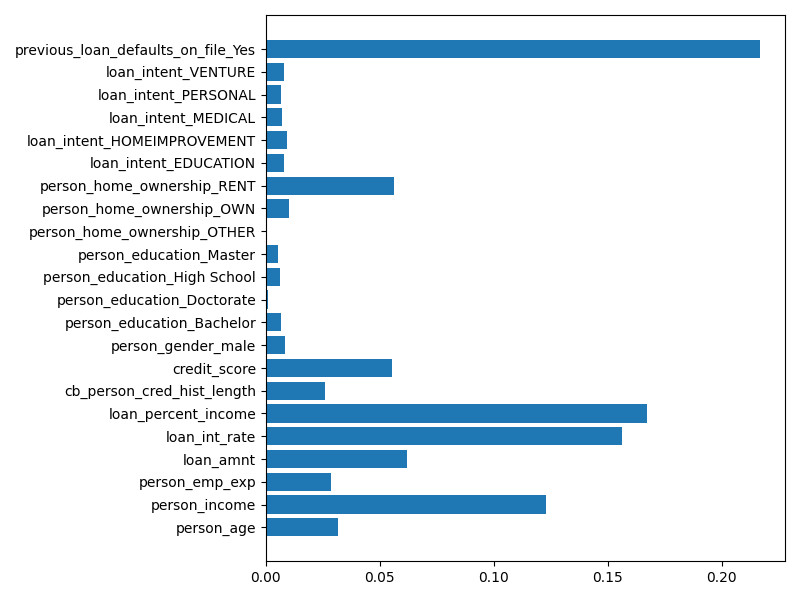
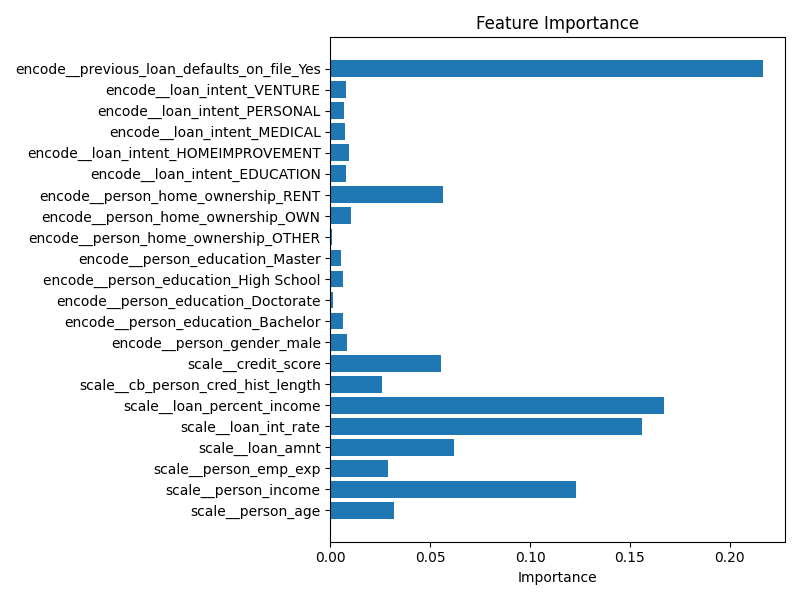
Added GitHub Actions workflow for CI/CD

diff --git a/app.py b/app.py
@@ -1,62 +1,55 @@
 import streamlit as st
 import pandas as pd
 import joblib
-import os
 
-root = os.path.dirname(os.path.dirname(__file__))
 
-# Carga modelo y scaler
-model = joblib.load(f"{root}/models/loan_model.pkl")
-scaler = joblib.load(f"{root}/models/scaler.pkl")
+# Load the trained pipeline from disk
+pipeline = joblib.load("models/loan_pipeline.pkl")
 
-st.title("Predictor de Loan Approval")
+st.title("Loan Approval Predictor")
 
 with st.form("loan_form"):
-    age = st.number_input("Age", 18, 100, 30)
-    gender = st.selectbox("Gender", ["Male", "Female", "Other"])
-    education = st.selectbox("Education", ["High School", "Bachelor", "Master", "PhD"])
-    income = st.number_input("Annual Income", 0.0, 1e6, 50000.0, step=1000.0)
-    emp_exp = st.number_input("Employment Years", 0, 50, 5)
-    home = st.selectbox("Home Ownership", ["RENT", "OWN", "MORTGAGE", "OTHER"])
-    loan_amnt = st.number_input("Loan Amount", 0.0, 1e6, 10000.0, step=500.0)
-    loan_intent = st.selectbox("Loan Purpose", ["PERSONAL", "EDUCATION", "MEDICAL",
-                                                "VENTURE", "HOME_IMPROVEMENT", "DEBT_CONSOLIDATION"])
-    loan_int_rate = st.number_input("Interest Rate (%)", 0.0, 100.0, 10.0)
-    loan_pct_inc = st.number_input("Loan % of Income", 0.0, 200.0, 20.0)
-    cred_hist = st.number_input("Credit History (yrs)", 0.0, 50.0, 5.0)
-    credit_score = st.number_input("Credit Score", 300, 850, 650)
-    prev_def = st.selectbox("Previous Defaults?", ["No", "Yes"])
-    submitted = st.form_submit_button("Predict")
+    age = st.number_input("Age", min_value=18, max_value=100, value=30)
+    gender = st.selectbox("Gender", ["male", "female"],format_func=lambda x: x.title())
+    education = st.selectbox("Education Level", ["High School", "Bachelor", "Master", "PhD"])
+    income = st.number_input("Annual Income", min_value=0.0, value=50000.0, step=1000.0)
+    emp_exp = st.number_input("Years of Employment", min_value=0, max_value=50, value=5)
+    home = st.selectbox("Home Ownership", ["RENT", "OWN", "MORTGAGE", "OTHER"],format_func=lambda x: x.title())
+    loan_amount = st.number_input("Loan Amount", min_value=0.0, value=10000.0, step=500.0)
+    loan_intent = st.selectbox("Loan Purpose", [
+        "PERSONAL", "EDUCATION", "MEDICAL",
+        "VENTURE", "HOME_IMPROVEMENT", "DEBT_CONSOLIDATION"
+    ],format_func=lambda x: x.title())
+    interest_rate = st.number_input("Interest Rate (%)", min_value=0.0, max_value=100.0, value=10.0)
+    percent_income = st.number_input("Loan as % of Income", min_value=0.0, max_value=200.0, value=20.0)
+    credit_history = st.number_input("Credit History (years)", min_value=0.0, max_value=50.0, value=5.0)
+    credit_score = st.number_input("Credit Score", min_value=300, max_value=850, value=650)
+    previous_defaults = st.selectbox("Previous Defaults?", ["No", "Yes"])
+    submit = st.form_submit_button("Predict")
 
-if submitted:
-    # Validaciones simples
-    errs = []
-    if income < loan_amnt:
-        errs.append("Income debe ≥ loan amount.")
-    if loan_int_rate > 50:
-        errs.append("Interest rate muy alto.")
-    if errs:
-        for e in errs:
-            st.error(e)
+if submit:
+    # Ensure that income is not less than the requested loan amount
+    if income < loan_amount:
+        st.error("Annual income must be at least the loan amount.")
     else:
-        # Crea DataFrame
-        df = pd.DataFrame({
-            "person_age": [age],
-            "person_gender": [gender],
-            "person_education": [education],
-            "person_income": [income],
-            "person_emp_exp": [emp_exp],
-            "person_home_ownership": [home],
-            "loan_amnt": [loan_amnt],
-            "loan_intent": [loan_intent],
-            "loan_int_rate": [loan_int_rate],
-            "loan_percent_income": [loan_pct_inc],
-            "cb_person_cred_hist_length": [cred_hist],
-            "credit_score": [credit_score],
-            "previous_loan_defaults_on_file": [prev_def]
-        })
-        # Aplica mismo preprocessing de categorías y escalado (podrías extraer función)
-        df_enc = pd.get_dummies(df, drop_first=True).reindex(columns=scaler.feature_names_in_, fill_value=0)
-        X_scaled = scaler.transform(df_enc)
-        pred = model.predict(X_scaled)[0]
-        st.success(f"Loan status: **{pred}**")
+        # Build a DataFrame with the user inputs
+        input_df = pd.DataFrame([{
+            "person_age": age,
+            "person_gender": gender,
+            "person_education": education,
+            "person_income": income,
+            "person_emp_exp": emp_exp,
+            "person_home_ownership": home,
+            "loan_amnt": loan_amount,
+            "loan_intent": loan_intent,
+            "loan_int_rate": interest_rate,
+            "loan_percent_income": percent_income,
+            "cb_person_cred_hist_length": credit_history,
+            "credit_score": credit_score,
+            "previous_loan_defaults_on_file": previous_defaults
+        }])
+
+        # Use the pipeline to make a prediction
+        prediction = pipeline.predict(input_df)[0]
+        loan_status = "Approved" if prediction == 1 else "Rejected"
+        st.success(f"Loan status predicted as: {loan_status}")

diff --git a/src/evaluate.py b/src/evaluate.py
@@ -1,36 +1,72 @@
-import joblib
 import os
+import joblib
 import pandas as pd
 from sklearn.metrics import accuracy_score
 import matplotlib.pyplot as plt
-from src.preprocessing import load_data, preprocess
 from sklearn.model_selection import train_test_split
 
-if __name__ == "__main__":
-    root = os.path.dirname(os.path.dirname(__file__))
-    model = joblib.load(f"{root}/models/loan_model.pkl")
-    scaler = joblib.load(f"{root}/models/scaler.pkl")
+# load the pipeline that includes preprocessing and the classifier
+root = os.path.dirname(os.path.dirname(__file__))
+pipeline  = joblib.load(f"{root}/models/loan_pipeline.pkl")
 
-    df = load_data(f"{root}/data/loan_data.csv")
-    X, y, _ = preprocess(df)
-    X_train, X_test, y_train, y_test = train_test_split(
-        X, y, test_size=0.2, random_state=42
-    )
+# load the raw dataset and drop any missing values
+df = pd.read_csv(f"{root}/data/loan_data.csv").dropna()
 
-    y_pred = model.predict(X_test)
-    acc = accuracy_score(y_test, y_pred)
-    err_rate = 1 - acc
+# define which columns were used as inputs to the pipeline
+numeric_features = [
+    "person_age",
+    "person_income",
+    "person_emp_exp",
+    "loan_amnt",
+    "loan_int_rate",
+    "loan_percent_income",
+    "cb_person_cred_hist_length",
+    "credit_score"
+]
+categorical_features = [
+    "person_gender",
+    "person_education",
+    "person_home_ownership",
+    "loan_intent",
+    "previous_loan_defaults_on_file"
+]
 
-    os.makedirs("reports", exist_ok=True)
-    with open(f"{root}/reports/metrics.txt", "w") as f:
-        f.write(f"Accuracy: {acc:.4f}\nError rate: {err_rate:.4f}\n")
+# split the data into features and target
+X = df[numeric_features + categorical_features]
+y = df["loan_status"]
 
-    imp = model.feature_importances_
-    feat = X.columns
-    plt.figure(figsize=(8,6))
-    plt.barh(feat, imp)
-    plt.tight_layout()
-    plt.savefig(f"{root}/reports/feature_importance.png")
+# split into training and testing subsets
+X_train, X_test, y_train, y_test = train_test_split(
+    X, y, test_size=0.2, random_state=42
+)
 
-    print(f"Report saved on:\n{root}/reports")
-    print(f"Accuracy: {acc*100:.2f}%\nError rate: {err_rate*100:.2f}%\n")
+# use the pipeline to make predictions on the test set
+y_pred = pipeline.predict(X_test)
+
+# calculate accuracy and error rate
+acc = accuracy_score(y_test, y_pred)
+err_rate = 1 - acc
+
+# ensure the reports directory exists
+os.makedirs(f"{root}/reports", exist_ok=True)
+
+# save metrics to a text file
+metrics_path = f"{root}/reports/metrics.txt"
+with open(metrics_path, "w") as f:
+    f.write(f"Accuracy: {acc:.4f}\nError rate: {err_rate:.4f}\n")
+
+# extract feature names from the preprocessor and classifier
+preprocessor = pipeline.named_steps["preprocessor"]
+feature_names = preprocessor.get_feature_names_out()
+importance = pipeline.named_steps["classifier"].feature_importances_
+
+# plot and save feature importance
+plt.figure(figsize=(8, 6))
+plt.barh(feature_names, importance )
+plt.xlabel("Importance")
+plt.title("Feature Importance")
+plt.tight_layout()
+plt.savefig(f"{root}/reports/feature_importance.png")
+
+print(f"Report saved to:\n{root}/reports")
+print(f"Accuracy: {acc*100:.2f}%\nError rate: {err_rate*100:.2f}%\n")

diff --git a/src/train.py b/src/train.py
@@ -1,24 +1,61 @@
 import os
+import pandas as pd
 import joblib
+
+from sklearn.pipeline import Pipeline
+from sklearn.compose import ColumnTransformer
+from sklearn.preprocessing import StandardScaler, OneHotEncoder
 from sklearn.ensemble import RandomForestClassifier
 from sklearn.model_selection import train_test_split
-from src.preprocessing import load_data, preprocess
 
-if __name__ == "__main__":
-    root = os.path.dirname(os.path.dirname(__file__))
-    data_path = f"{root}/data/loan_data.csv"
-    df = load_data(data_path)
-    X, y, scaler = preprocess(df)
+root = os.path.dirname(os.path.dirname(__file__))
 
-    X_train, X_test, y_train, y_test = train_test_split(
-        X, y, test_size=0.2, random_state=42
-    )
+# Load the data and remove any missing values
+print("Reading data...")
+df = pd.read_csv(f"{root}/data/loan_data.csv").dropna()
 
-    model = RandomForestClassifier(n_estimators=100, random_state=42)
-    model.fit(X_train, y_train)
+# Specify which columns are numeric and which are categorical
+numeric_features = [
+    "person_age",
+    "person_income",
+    "person_emp_exp",
+    "loan_amnt",
+    "loan_int_rate",
+    "loan_percent_income",
+    "cb_person_cred_hist_length",
+    "credit_score"
+]
+categorical_features = [
+    "person_gender",
+    "person_education",
+    "person_home_ownership",
+    "loan_intent",
+    "previous_loan_defaults_on_file"
+]
 
-    os.makedirs("models", exist_ok=True)
-    joblib.dump(model, f"{root}/models/loan_model.pkl")
-    joblib.dump(scaler, f"{root}/models/scaler.pkl")
+# Create a transformer that scales numerical data and encodes categorical data
+preprocessor = ColumnTransformer([
+    ("scale", StandardScaler(), numeric_features),
+    ("encode", OneHotEncoder(drop="first", sparse_output=False), categorical_features),
+])
 
-    print(f"Model & scaler serialized in:\n {root}/models")
+# Combine the preprocessor with a random forest classifier into a single pipeline
+pipeline = Pipeline([
+    ("preprocessor", preprocessor),
+    ("classifier", RandomForestClassifier(n_estimators=100, random_state=42)),
+])
+
+# Split the dataset into training and testing subsets
+X = df[numeric_features + categorical_features]
+y = df["loan_status"]
+X_train, X_test, y_train, y_test = train_test_split(
+    X, y, test_size=0.2, random_state=42
+)
+
+# Train the pipeline and save it to disk
+print("Training the pipeline...")
+pipeline.fit(X_train, y_train)
+os.makedirs(f"{root}/models", exist_ok=True)
+joblib.dump(pipeline, f"{root}/models/loan_pipeline.pkl")
+
+print("Pipeline has been saved to models/loan_pipeline.pkl")
